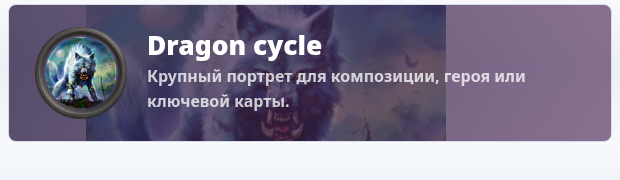
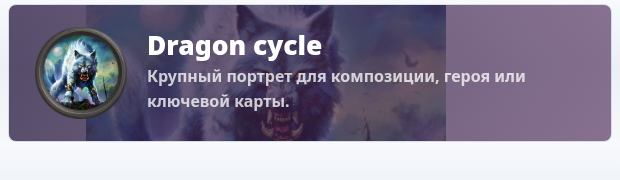
Increase stone portrait artwork area

Changed region(s): [[0.0613, 0.1944, 0.2145, 0.6111]]

diff --git a/src/hsreplay-deck-view.css b/src/hsreplay-deck-view.css
@@ -27,7 +27,7 @@
   --hsrdv-archetype-icon-size: 54px;
   --hsrdv-stone-portrait-size: 80px;
   --hsrdv-stone-portrait-gap: 12px;
-  --hsrdv-stone-portrait-art-inset: 12px;
+  --hsrdv-stone-portrait-art-inset: 8px;
   --hsrdv-stone-portrait-frame-image: url("https://static.hsreplay.net/static/webpack/assets/images/battlegrounds/minion-frame.d21732172d83faeae997.png");
   --hsrdv-icon-badge-shadow:
     -1px -1px 0 var(--hsrdv-black),
@@ -669,7 +669,7 @@
     --hsrdv-archetype-panel-width: 88px;
     --hsrdv-stone-portrait-size: 72px;
     --hsrdv-stone-portrait-gap: 10px;
-    --hsrdv-stone-portrait-art-inset: 11px;
+    --hsrdv-stone-portrait-art-inset: 8px;
   }
 
   .hsrdv-card-cost {

diff --git a/README.md b/README.md
@@ -176,7 +176,7 @@ GitHub Pages: https://zulut30.github.io/hsreplay-deck-view/
 #stone-portrait .hsrdv {
   --hsrdv-stone-portrait-size: 80px;
   --hsrdv-stone-portrait-gap: 12px;
-  --hsrdv-stone-portrait-art-inset: 12px;
+  --hsrdv-stone-portrait-art-inset: 8px;
 }
 ```
 